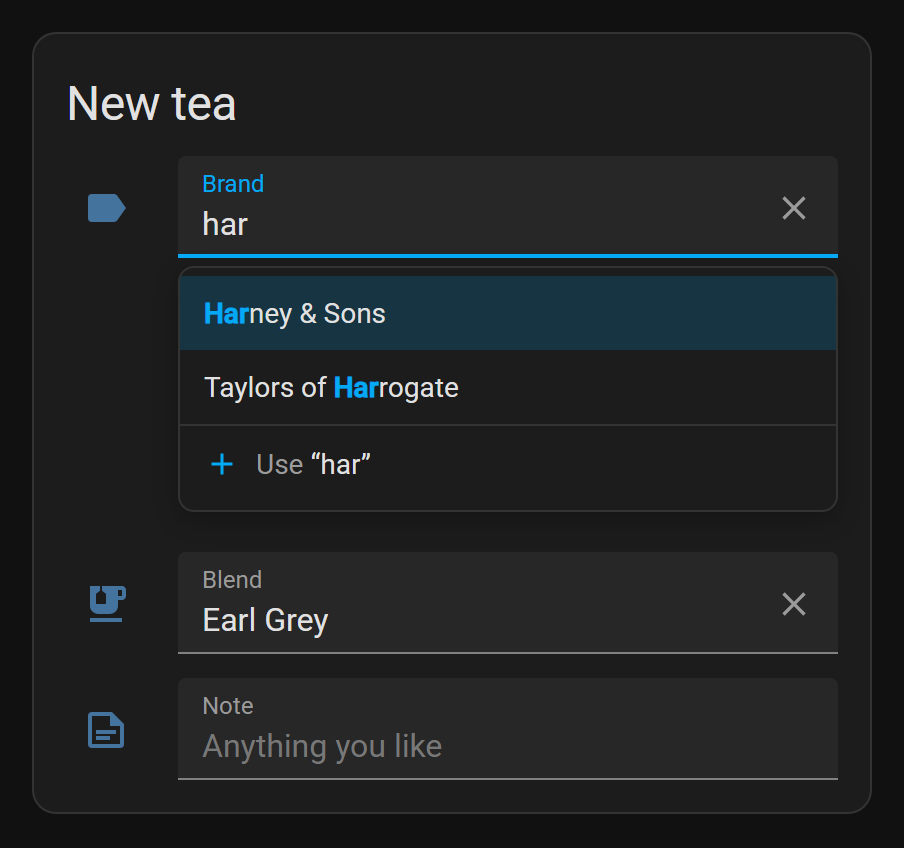
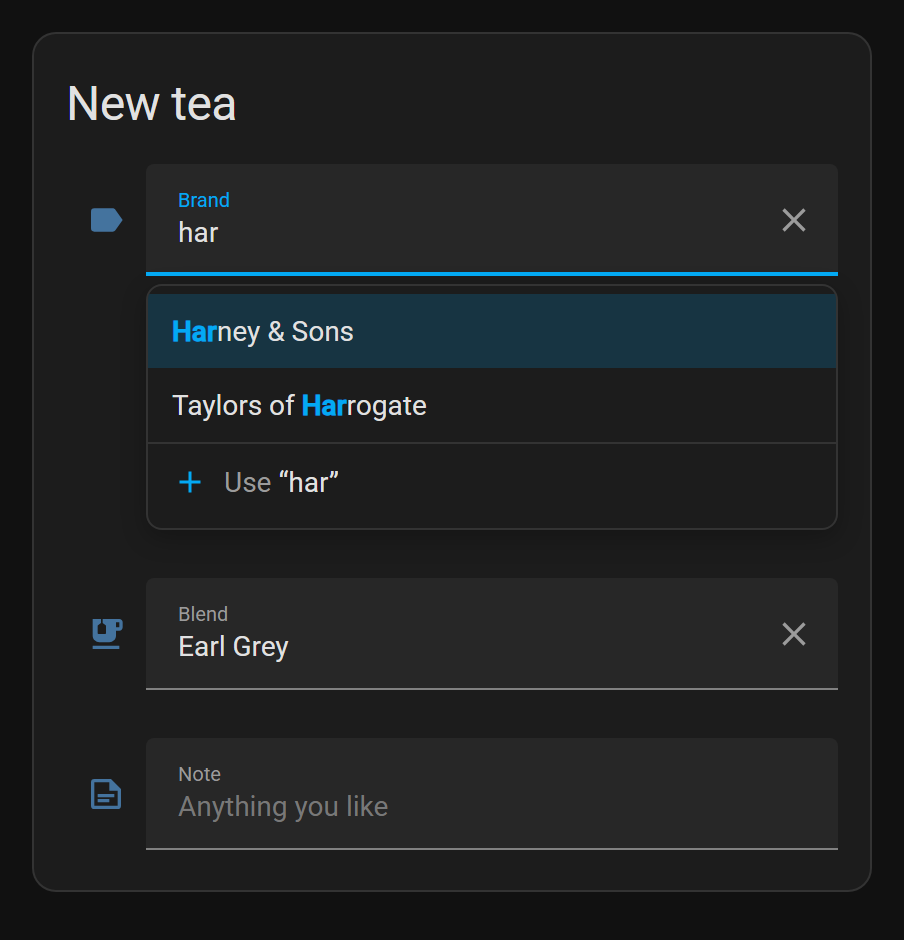
Match Home Assistant 2026 text input styling
The field now uses the same height, inset, label size and theme
colours as ha-input, and sits flush against the icon column like
the native rows around it.

diff --git a/autocomplete-text-row.js b/autocomplete-text-row.js
@@ -11,7 +11,7 @@
 //
 // https://github.com/Otixa/autocomplete-text-row
 
-export const VERSION = "1.0.0";
+export const VERSION = "1.0.1";
 
 // Lower-cased with diacritics removed, so "creme" finds "Crème".
 export const normalise = (s) =>
@@ -120,30 +120,39 @@ export function listItems(options, query) {
 }
 
 const STYLE = `
-  :host { display: block; }
-  .row { display: flex; align-items: flex-start; gap: 16px; }
+  :host { display: block; padding: 4px 0 12px; }
+  .row { display: flex; align-items: flex-start; }
   .row > ha-icon { color: var(--state-icon-color, var(--paper-item-icon-color)); flex: none;
-                   width: 40px; display: flex; justify-content: center; padding-top: 14px; }
+                   width: 40px; height: 56px; display: flex; align-items: center;
+                   justify-content: center; --mdc-icon-size: 20px; }
   .field ha-icon { --mdc-icon-size: 20px; }
   .main { flex: 1; min-width: 0; }
-  .field { position: relative; display: flex; align-items: center;
-           background: var(--input-fill-color, var(--secondary-background-color));
-           border-radius: 4px 4px 0 0;
-           border-bottom: 1px solid var(--input-idle-line-color, var(--secondary-text-color));
-           padding: 6px 4px 4px 12px; cursor: text; }
-  .field.focused { border-bottom: 2px solid var(--primary-color); padding-bottom: 3px; }
+  .field { position: relative; display: flex; align-items: center; box-sizing: border-box;
+           height: 56px; padding: 0 4px 0 16px; border-radius: 4px 4px 0 0; cursor: text;
+           background: var(--ha-color-form-background, var(--mdc-text-field-fill-color,
+                       var(--input-fill-color, var(--secondary-background-color)))); }
+  .field:hover { background: var(--ha-color-form-background-hover, var(--ha-color-form-background,
+                             var(--mdc-text-field-fill-color, var(--input-fill-color,
+                             var(--secondary-background-color))))); }
+  .field::after { content: ""; position: absolute; left: 0; right: 0; bottom: 0; height: 1px;
+                  pointer-events: none;
+                  background: var(--ha-color-border-neutral-loud, var(--input-idle-line-color,
+                              var(--secondary-text-color))); }
+  .field.focused::after { height: 2px; background: var(--primary-color); }
   .field.disabled { opacity: 0.5; cursor: default; }
   .text { flex: 1; min-width: 0; }
-  label { display: block; font-size: 12px; line-height: 16px; color: var(--secondary-text-color); }
+  label { display: block; font-size: var(--ha-font-size-xs, 10px); line-height: 12px;
+          color: var(--secondary-text-color); }
   .field.focused label { color: var(--primary-color); }
-  input { all: unset; display: block; width: 100%; font: inherit; font-size: 16px;
-          line-height: 24px; color: var(--primary-text-color); }
+  input { all: unset; display: block; width: 100%; font: inherit;
+          font-size: var(--ha-font-size-m, 14px); line-height: 20px;
+          color: var(--primary-text-color); }
   input::placeholder { color: var(--secondary-text-color); opacity: 0.7; }
   button { all: unset; cursor: pointer; display: flex; padding: 8px; border-radius: 50%;
            color: var(--secondary-text-color); }
   button:hover { background: var(--secondary-background-color); }
   button[hidden] { display: none; }
-  ul { list-style: none; margin: 4px 0 8px; padding: 4px 0; max-height: 240px; overflow-y: auto;
+  ul { list-style: none; margin: 4px 0 0; padding: 4px 0; max-height: 240px; overflow-y: auto;
        background: var(--card-background-color, var(--ha-card-background));
        border: 1px solid var(--divider-color); border-radius: 8px;
        box-shadow: 0 4px 12px rgba(0,0,0,.25); }

diff --git a/demo/index.html b/demo/index.html
@@ -23,7 +23,7 @@
   ha-card { display: block; background: var(--card-background-color); border-radius: 12px;
             border: 1px solid var(--divider-color); color: var(--primary-text-color); }
   .header { font-size: 24px; padding: 20px 16px 12px; letter-spacing: -0.012em; }
-  .content { padding: 0 16px 16px; display: flex; flex-direction: column; gap: 12px; }
+  .content { padding: 0 16px 8px; display: flex; flex-direction: column; gap: 8px; }
 </style>
 <script type="module">
   import * as mdi from "https://cdn.jsdelivr.net/npm/@mdi/js@7/mdi.js";

diff --git a/README.md b/README.md
@@ -61,7 +61,7 @@ HACS registers the dashboard resource automatically.
 
 ```yaml
 resources:
-  - url: /local/autocomplete-text-row.js?v=1.0.0
+  - url: /local/autocomplete-text-row.js?v=1.0.1
     type: module
 ```
 
@@ -161,9 +161,12 @@ The row reads these standard theme variables:
 | `--primary-color`               | Focus underline, label, highlights, tick  |
 | `--primary-text-color`          | Field and option text                     |
 | `--secondary-text-color`        | Label, placeholder, buttons               |
-| `--secondary-background-color`  | Field background fallback, button hover   |
-| `--input-fill-color`            | Field background                          |
-| `--input-idle-line-color`       | Field underline                           |
+| `--ha-color-form-background`    | Field background                          |
+| `--ha-color-form-background-hover` | Field background on hover              |
+| `--ha-color-border-neutral-loud` | Field underline                          |
+| `--input-fill-color`            | Field background on older frontends       |
+| `--input-idle-line-color`       | Field underline on older frontends        |
+| `--secondary-background-color`  | Last-resort field background, button hover |
 | `--card-background-color`       | List background                           |
 | `--divider-color`               | List border                               |
 | `--state-icon-color`            | Row icon                                  |

diff --git a/CHANGELOG.md b/CHANGELOG.md
@@ -2,6 +2,12 @@
 
 All notable changes to this project are documented in this file. The format is based on [Keep a Changelog](https://keepachangelog.com/en/1.1.0/), and the project follows [Semantic Versioning](https://semver.org/).
 
+## [1.0.1](https://github.com/Otixa/autocomplete-text-row/compare/v1.0.0...v1.0.1) (2026-09-24)
+
+### Fixed
+
+- The field now matches Home Assistant's own text inputs (2026.x): 56px tall, flush against the icon column, 16px inset, smaller label, and the form background, hover and underline colours from the theme (`--ha-color-form-background`, `--ha-color-form-background-hover`, `--ha-color-border-neutral-loud`). Older frontends fall back to the previous variables. Before, the row sat about 10px to the right of neighbouring rows and could show a different background.
+
 ## [1.0.0](https://github.com/Otixa/autocomplete-text-row/releases/tag/v1.0.0) (2026-09-24)
 
 Initial release.
